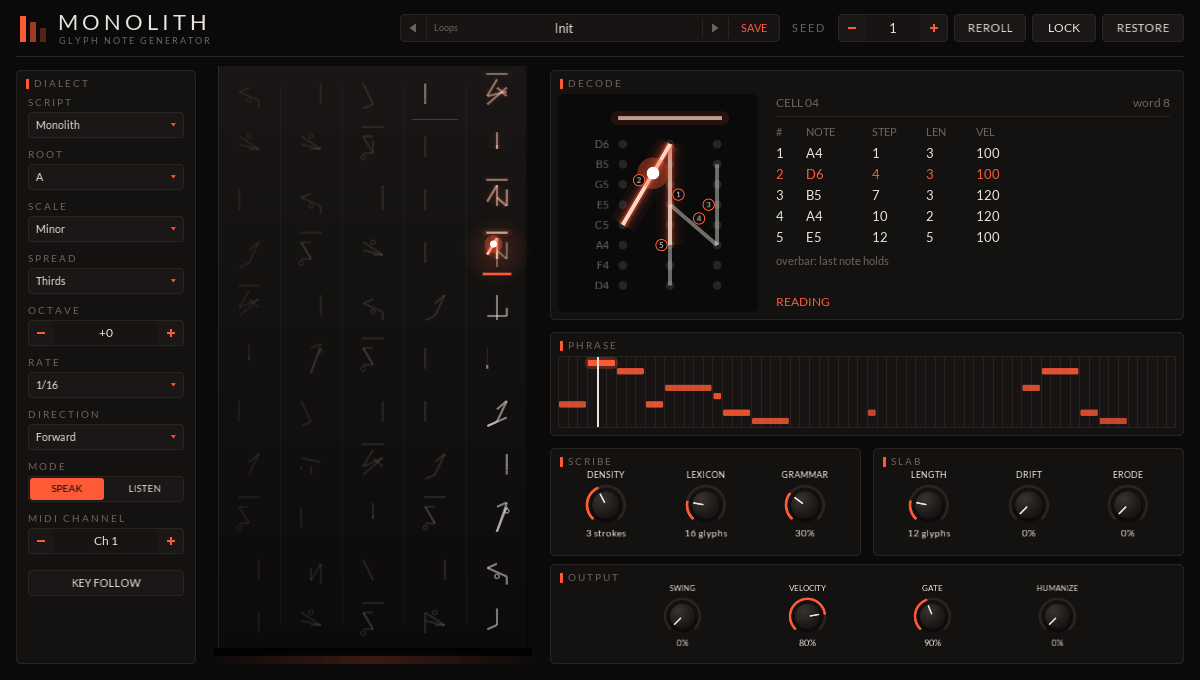
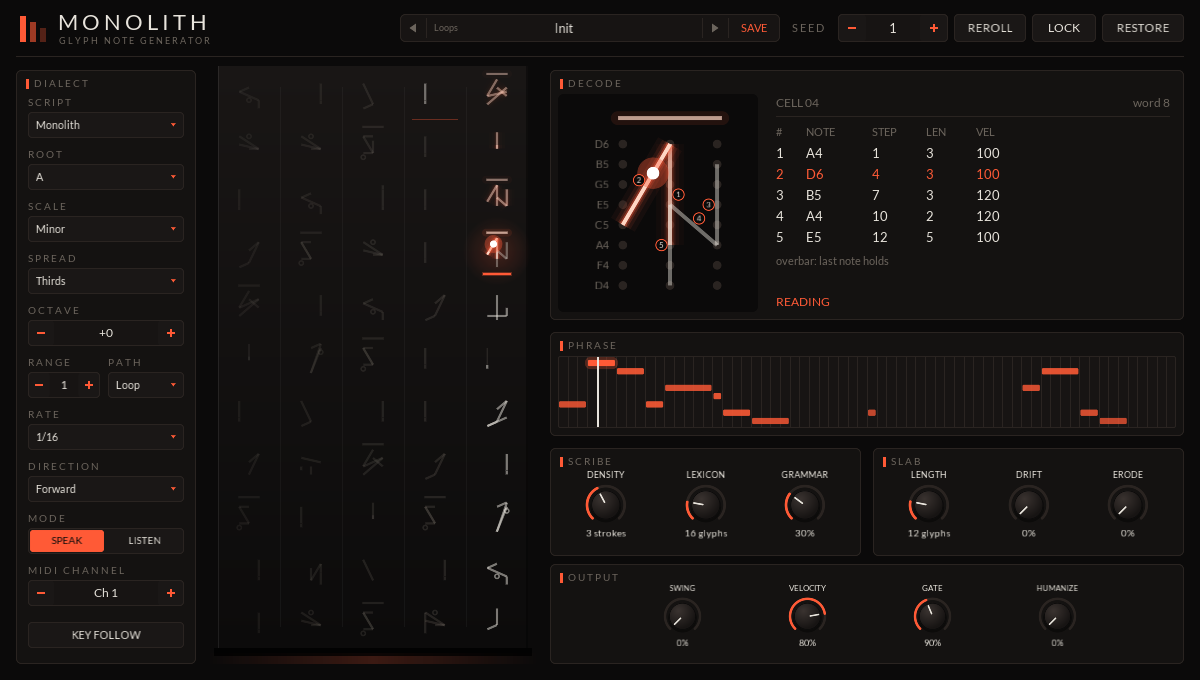
Monolith: RANGE shows just its number so it fits beside PATH, and the panel screenshot is updated
Claude-Session: https://claude.ai/code/session_01FGswf5ttMtyjzaGDSKFKnV

diff --git a/plugins/monolith/src/editor.cpp b/plugins/monolith/src/editor.cpp
@@ -886,9 +886,9 @@ private:
       caption({28, y, 72, 14}, "RANGE");
       auto &range = themed(add<ui::NumberBox>({28, y + 16, 72, 26}, rangeOf(kRange, 1.0)));
       range.setStepButtons(true);
-      range.valueText = [](double v) { return std::to_string(std::lround(v)) + " OCT"; };
+      range.valueText = [](double v) { return std::to_string(std::lround(v)); };
       bindings_.bind(range, kRange);
-      tips_.add(range, "How many octaves the phrase moves through, upward from OCTAVE. Each note takes the octave "
+      tips_.add(range, "How many octaves (1 to 4) the phrase moves through, upward from OCTAVE. Each note takes the octave "
                        "nearest the last one, so the line changes octave where the leap is shortest.");
       caption({108, y, 76, 14}, "PATH");
       auto &path = themed(add<ui::Dropdown>({108, y + 16, 76, 26}, namesOf(kPath)));
